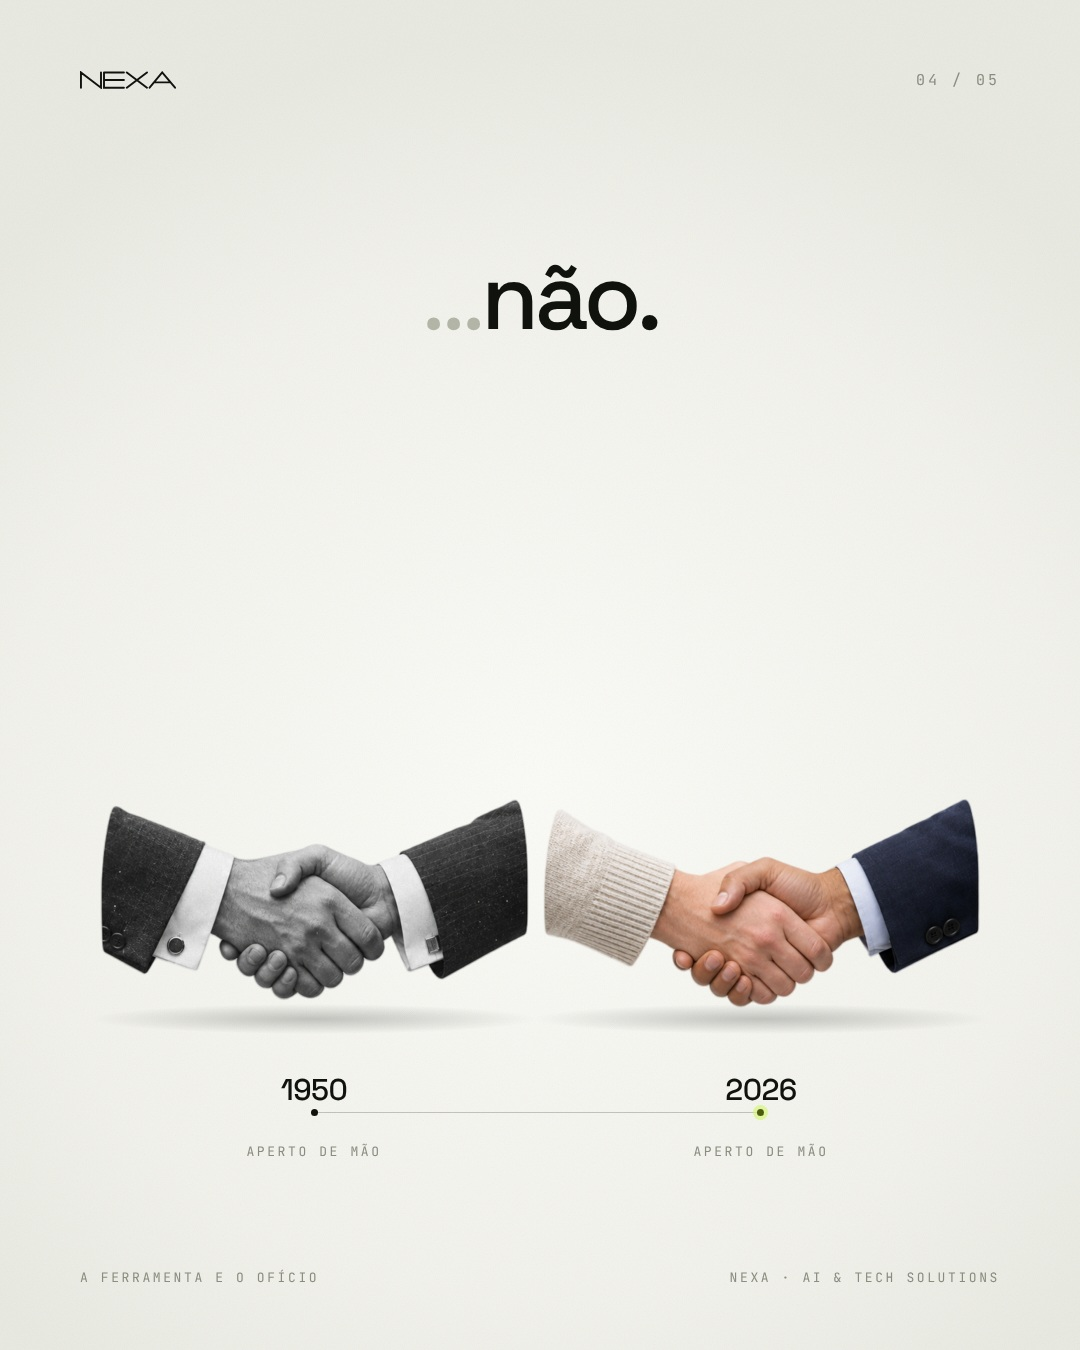
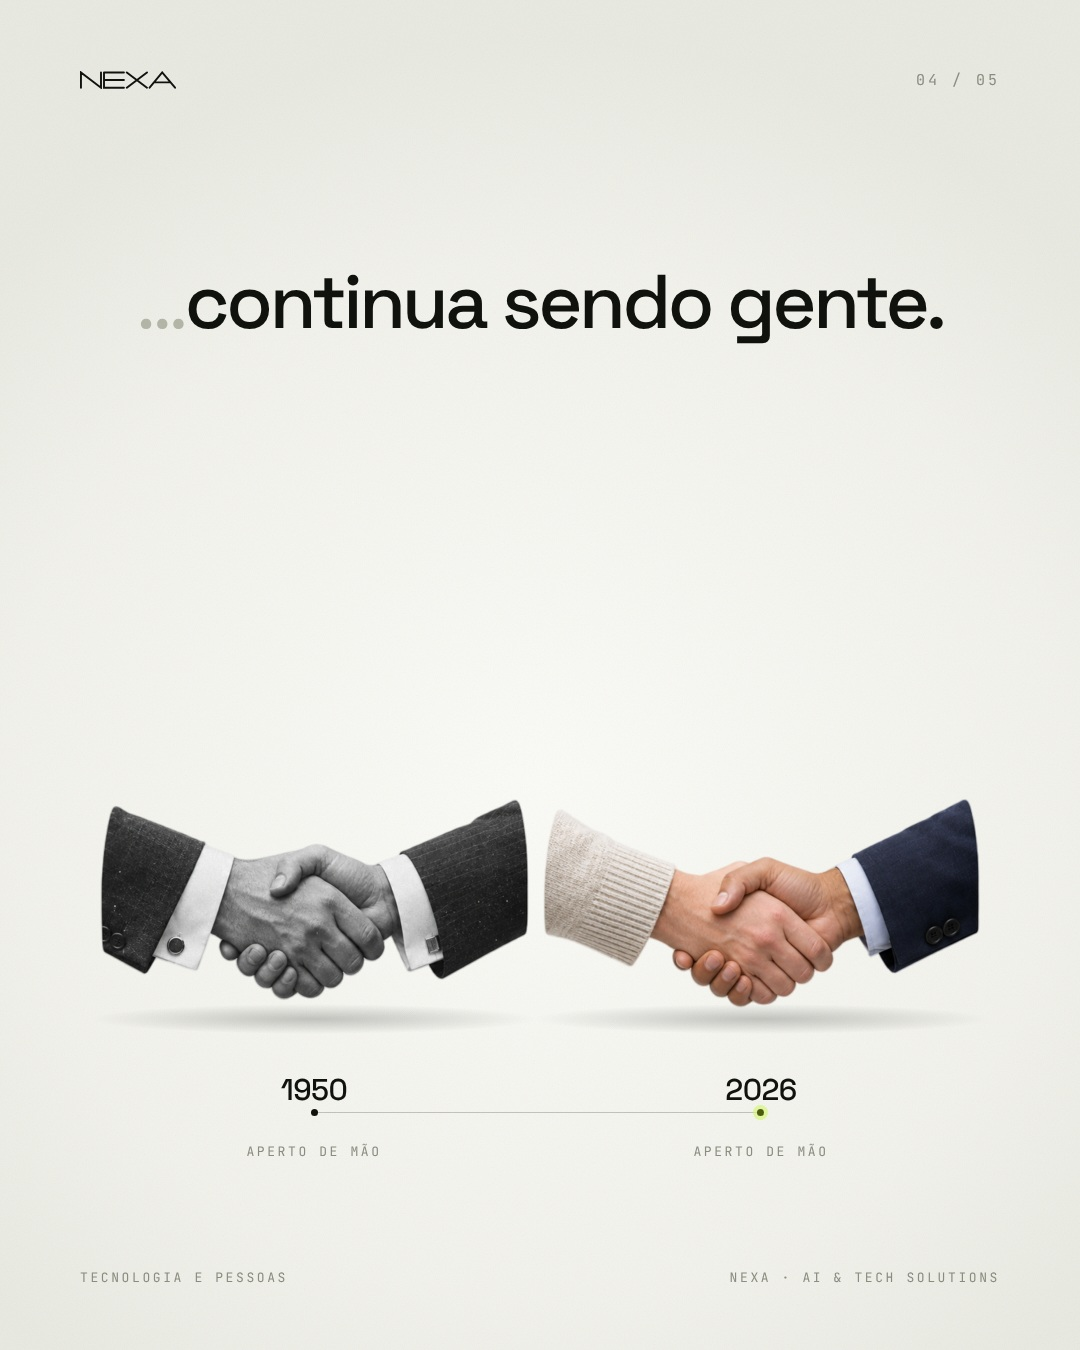
Carrossel ferramenta muda: texto focado em NEXA e IA
Claude-Session: https://claude.ai/code/session_01D69rV6pxRKedanUm525i1S

Changed region(s): [[0.1222, 0.1867, 0.8861, 0.28]]

diff --git a/social/carrossel-ferramenta-muda/carrossel.html b/social/carrossel-ferramenta-muda/carrossel.html
@@ -2,7 +2,7 @@
 <html lang="pt-BR">
 <head>
 <meta charset="utf-8">
-<title>A ferramenta mudou</title>
+<title>A tecnologia acelera</title>
 <link rel="stylesheet" href="../instagram-nexa/nexa-fonts.css">
 <style>
   /* Versão premium: fundo osso com luz suave e grão, tipografia leve,
@@ -40,9 +40,9 @@
   .fim body::after, .fim::after { mix-blend-mode: screen; opacity: .05; }
   .fim .topo { color: #7f8374; }
   .fim .k { position: absolute; left: 80px; top: 300px; color: var(--lima); font-size: 14px; }
-  .fim h2 { position: absolute; left: 80px; right: 80px; top: 350px; font-weight: 500; font-size: 76px; line-height: 1.02; letter-spacing: -.045em; }
+  .fim h2 { position: absolute; left: 80px; right: 80px; top: 350px; font-weight: 500; font-size: 90px; line-height: 1.02; letter-spacing: -.045em; }
   .fim h2 span { color: var(--lima); }
-  .fim p { position: absolute; left: 80px; width: 760px; top: 600px; font-family: 'DM Sans', sans-serif; font-size: 30px; line-height: 1.45; color: #b9bcae; }
+  .fim p { position: absolute; left: 80px; width: 820px; top: 620px; font-family: 'DM Sans', sans-serif; font-size: 30px; line-height: 1.45; color: #b9bcae; }
   .fim .card { position: absolute; left: 80px; right: 80px; top: 880px; padding: 44px 48px; border: 1px solid rgba(212,249,105,.35); border-radius: 22px; background: rgba(255,255,255,.025); }
   .fim .card .mono { color: var(--lima); font-size: 13px; }
   .fim .card div { margin-top: 18px; font-weight: 500; font-size: 52px; line-height: 1.05; letter-spacing: -.035em; }
@@ -55,10 +55,10 @@
 <script>
 const LOGO = c => `<svg viewBox="0 0 800 150"><path fill="none" stroke="${c}" stroke-width="16" stroke-linecap="round" d="M8 139V12L175 139V12M200 12H366M200 12V139H366M200 75H366M390 12L558 139M558 12L390 139M580 139L685 12L792 139M618 95H755"/></svg>`;
 const S = {
-  1: { h: 'A ferramenta<span class="r">…</span>', a: ['1900', '2026'], c: ['Telefone de mesa', 'Smartphone'] },
-  2: { h: '<span class="r">…</span>mudou<span class="r">…</span>', a: ['1920', '2026'], c: ['Máquina de escrever', 'Notebook'] },
-  3: { h: '<span class="r">…</span>o que fecha negócio<span class="r">…</span>', a: ['1960', '2026'], c: ['Cafezinho', 'Cafezinho'], menor: 1 },
-  4: { h: '<span class="r">…</span>não.', a: ['1950', '2026'], c: ['Aperto de mão', 'Aperto de mão'] },
+  1: { h: 'A tecnologia<span class="r">…</span>', a: ['1900', '2026'], c: ['Telefone de mesa', 'Smartphone'] },
+  2: { h: '<span class="r">…</span>acelera<span class="r">…</span>', a: ['1920', '2026'], c: ['Máquina de escrever', 'Notebook'] },
+  3: { h: '<span class="r">…</span>mas quem dá a direção<span class="r">…</span>', a: ['1960', '2026'], c: ['Cafezinho', 'Cafezinho'], menor: 1 },
+  4: { h: '<span class="r">…</span>continua sendo gente.', menor: 1, a: ['1950', '2026'], c: ['Aperto de mão', 'Aperto de mão'] },
 };
 // centros (x) e larguras dos objetos em cada recorte, medidos pelo script de preparo
 const POS = window.POS || {};
@@ -69,21 +69,21 @@ if (S[n]) {
   const s = S[n], p = POS[n] || { c: [330, 750], w: [300, 300] };
   raiz.innerHTML = `
     <div class="topo">${LOGO('#10120e')}<span class="mono">${pg}</span></div>
-    <h1 style="${s.menor ? 'font-size:80px;top:262px' : ''}">${s.h}</h1>
+    <h1 style="${s.menor ? 'font-size:76px;top:264px' : ''}">${s.h}</h1>
     <div class="chao">${p.c.map((x, i) => `<i style="left:${x}px;width:${p.w[i] * 1.05}px"></i>`).join('')}</div>
     <img class="par" src="img/par-${n}.png" alt="">
     <div class="linha" style="left:${p.c[0]}px;width:${p.c[1] - p.c[0]}px"></div>
     ${p.c.map((x, i) => `<div class="etq" style="left:${x}px"><b>${s.a[i]}</b><span class="mono">${s.c[i]}</span></div>`).join('')}
-    <div class="rod mono"><span>A ferramenta e o ofício</span><span>NEXA · AI &amp; Tech Solutions</span></div>`;
+    <div class="rod mono"><span>Tecnologia e pessoas</span><span>NEXA · AI &amp; Tech Solutions</span></div>`;
 } else {
   document.body.className = 'fim';
   raiz.innerHTML = `
     <div class="topo">${LOGO('#f2f2ec')}<span class="mono">${pg}</span></div>
-    <div class="k mono">O que fica</div>
-    <h2>A IA muda a ferramenta.<br><span>Não o que faz você vender.</span></h2>
-    <p>Proposta, follow-up, CRM: a IA acelera o que é repetitivo. Confiança, escuta e relacionamento continuam sendo trabalho de gente.</p>
-    <div class="card"><span class="mono">Antes de automatizar, pergunte</span><div>O que só o seu time faz bem?</div></div>
-    <div class="rod mono"><span>nexatech.ia.br</span><span>IA acelera. Pessoas dão direção.</span></div>`;
+    <div class="k mono">O que a NEXA faz</div>
+    <h2>IA acelera.<br><span>Pessoas dão direção.</span></h2>
+    <p>A NEXA cria produtos e soluções com IA que tiram o trabalho repetitivo do caminho, para o seu time gastar tempo no que só gente faz: pensar, decidir e criar.</p>
+    <div class="card"><span class="mono">Antes de automatizar, pergunte</span><div>Onde a IA acelera, e onde o seu time decide?</div></div>
+    <div class="rod mono"><span>nexatech.ia.br</span><span>NEXA · AI &amp; Tech Solutions</span></div>`;
 }
 window.ready = document.fonts.ready.then(() => new Promise(r => { const i = document.querySelector('img.par'); if (!i || i.complete) return r(); i.onload = i.onerror = r; }));
 </script>

diff --git a/social/carrossel-ferramenta-muda/legenda.md b/social/carrossel-ferramenta-muda/legenda.md
@@ -1,20 +1,18 @@
-# Carrossel NEXA · "A ferramenta mudou, o que fecha negócio não"
+# Carrossel NEXA · "A tecnologia acelera, quem dá a direção continua sendo gente"
 
 Formato inspirado num carrossel de referência (frase partida em telas + par de objetos com ano), com mensagem e identidade da NEXA.
 
 - `carrossel.html?s=1..5` → `node render.mjs` → `out/slide-01..05.jpg`
-- Imagens dos pares geradas no ElevenLabs (gpt-image), fundo removido (birefnet), em `img/par-1..4.png`; posições em `img/pos.js`. Os anos marcam a época do objeto, não datas de invenção.
+- Imagens dos pares geradas no ElevenLabs (gpt-image), fundo removido (birefnet), em `img/par-1..4.png`; posições em `img/pos.js`. Os anos marcam a época do objeto, não dat## Legenda
 
-## Legenda
+O telefone virou smartphone. A máquina de escrever virou notebook. Agora é a vez da IA.
 
-O telefone virou smartphone. A máquina de escrever virou notebook. E agora a IA está mudando de novo a forma como a gente trabalha.
+Cada salto de tecnologia fez o trabalho andar mais rápido. Nenhum deles mudou quem decide pra onde o trabalho vai.
 
-Mas tem coisa que não mudou: o cafezinho antes da reunião, o aperto de mão no fechamento, a confiança que leva meses pra construir.
+É assim que a gente pensa IA na NEXA: ela tira do caminho o que é repetitivo (resumir, organizar, responder, atualizar) pra que o seu time gaste tempo no que só gente faz: pensar, decidir e criar.
 
-A IA acelera o que é repetitivo: proposta, follow-up, atualização de CRM, resumo de reunião. Isso libera tempo pro que só gente faz bem: escutar, entender o contexto e construir relacionamento.
-
-Antes de automatizar, vale perguntar: o que só o seu time faz bem?
+Antes de automatizar, vale perguntar: onde a IA acelera, e onde o seu time decide?
 
 IA acelera. Pessoas dão direção.
 
-#IA #Vendas #Produtividade #NEXA
+#IA #InteligenciaArtificial #Tecnologia #Produtividade #NEXA
